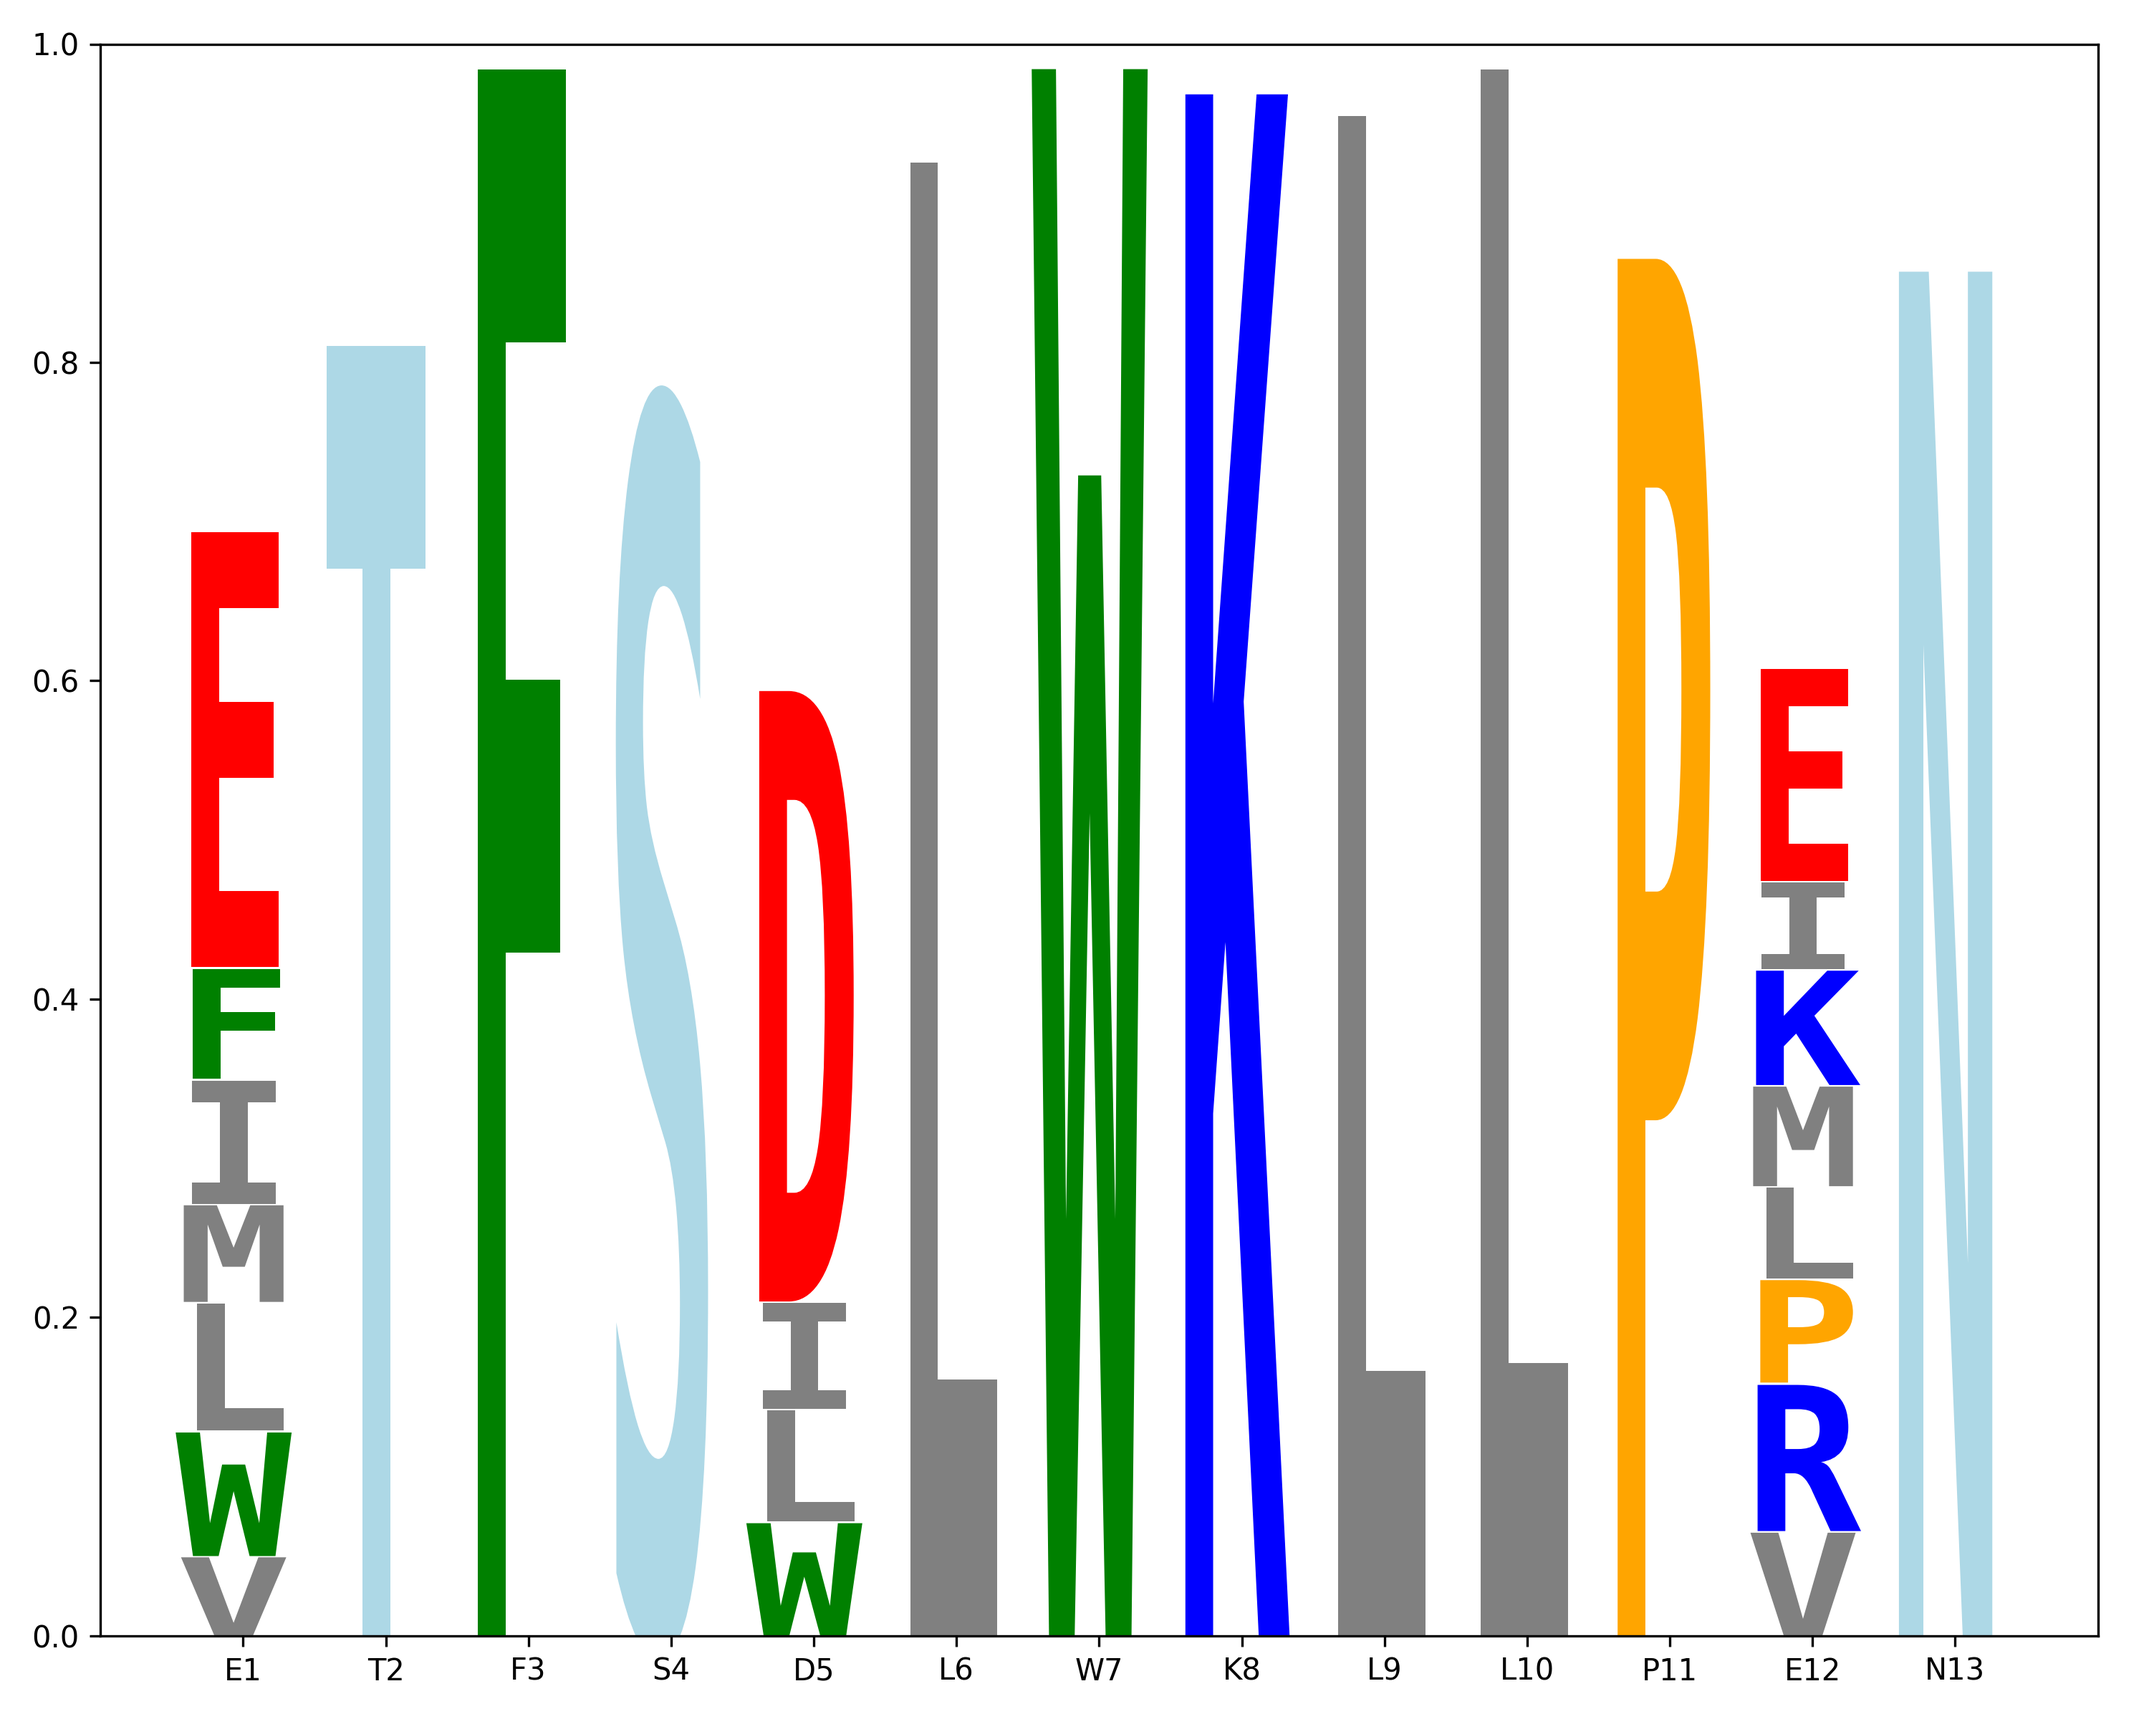
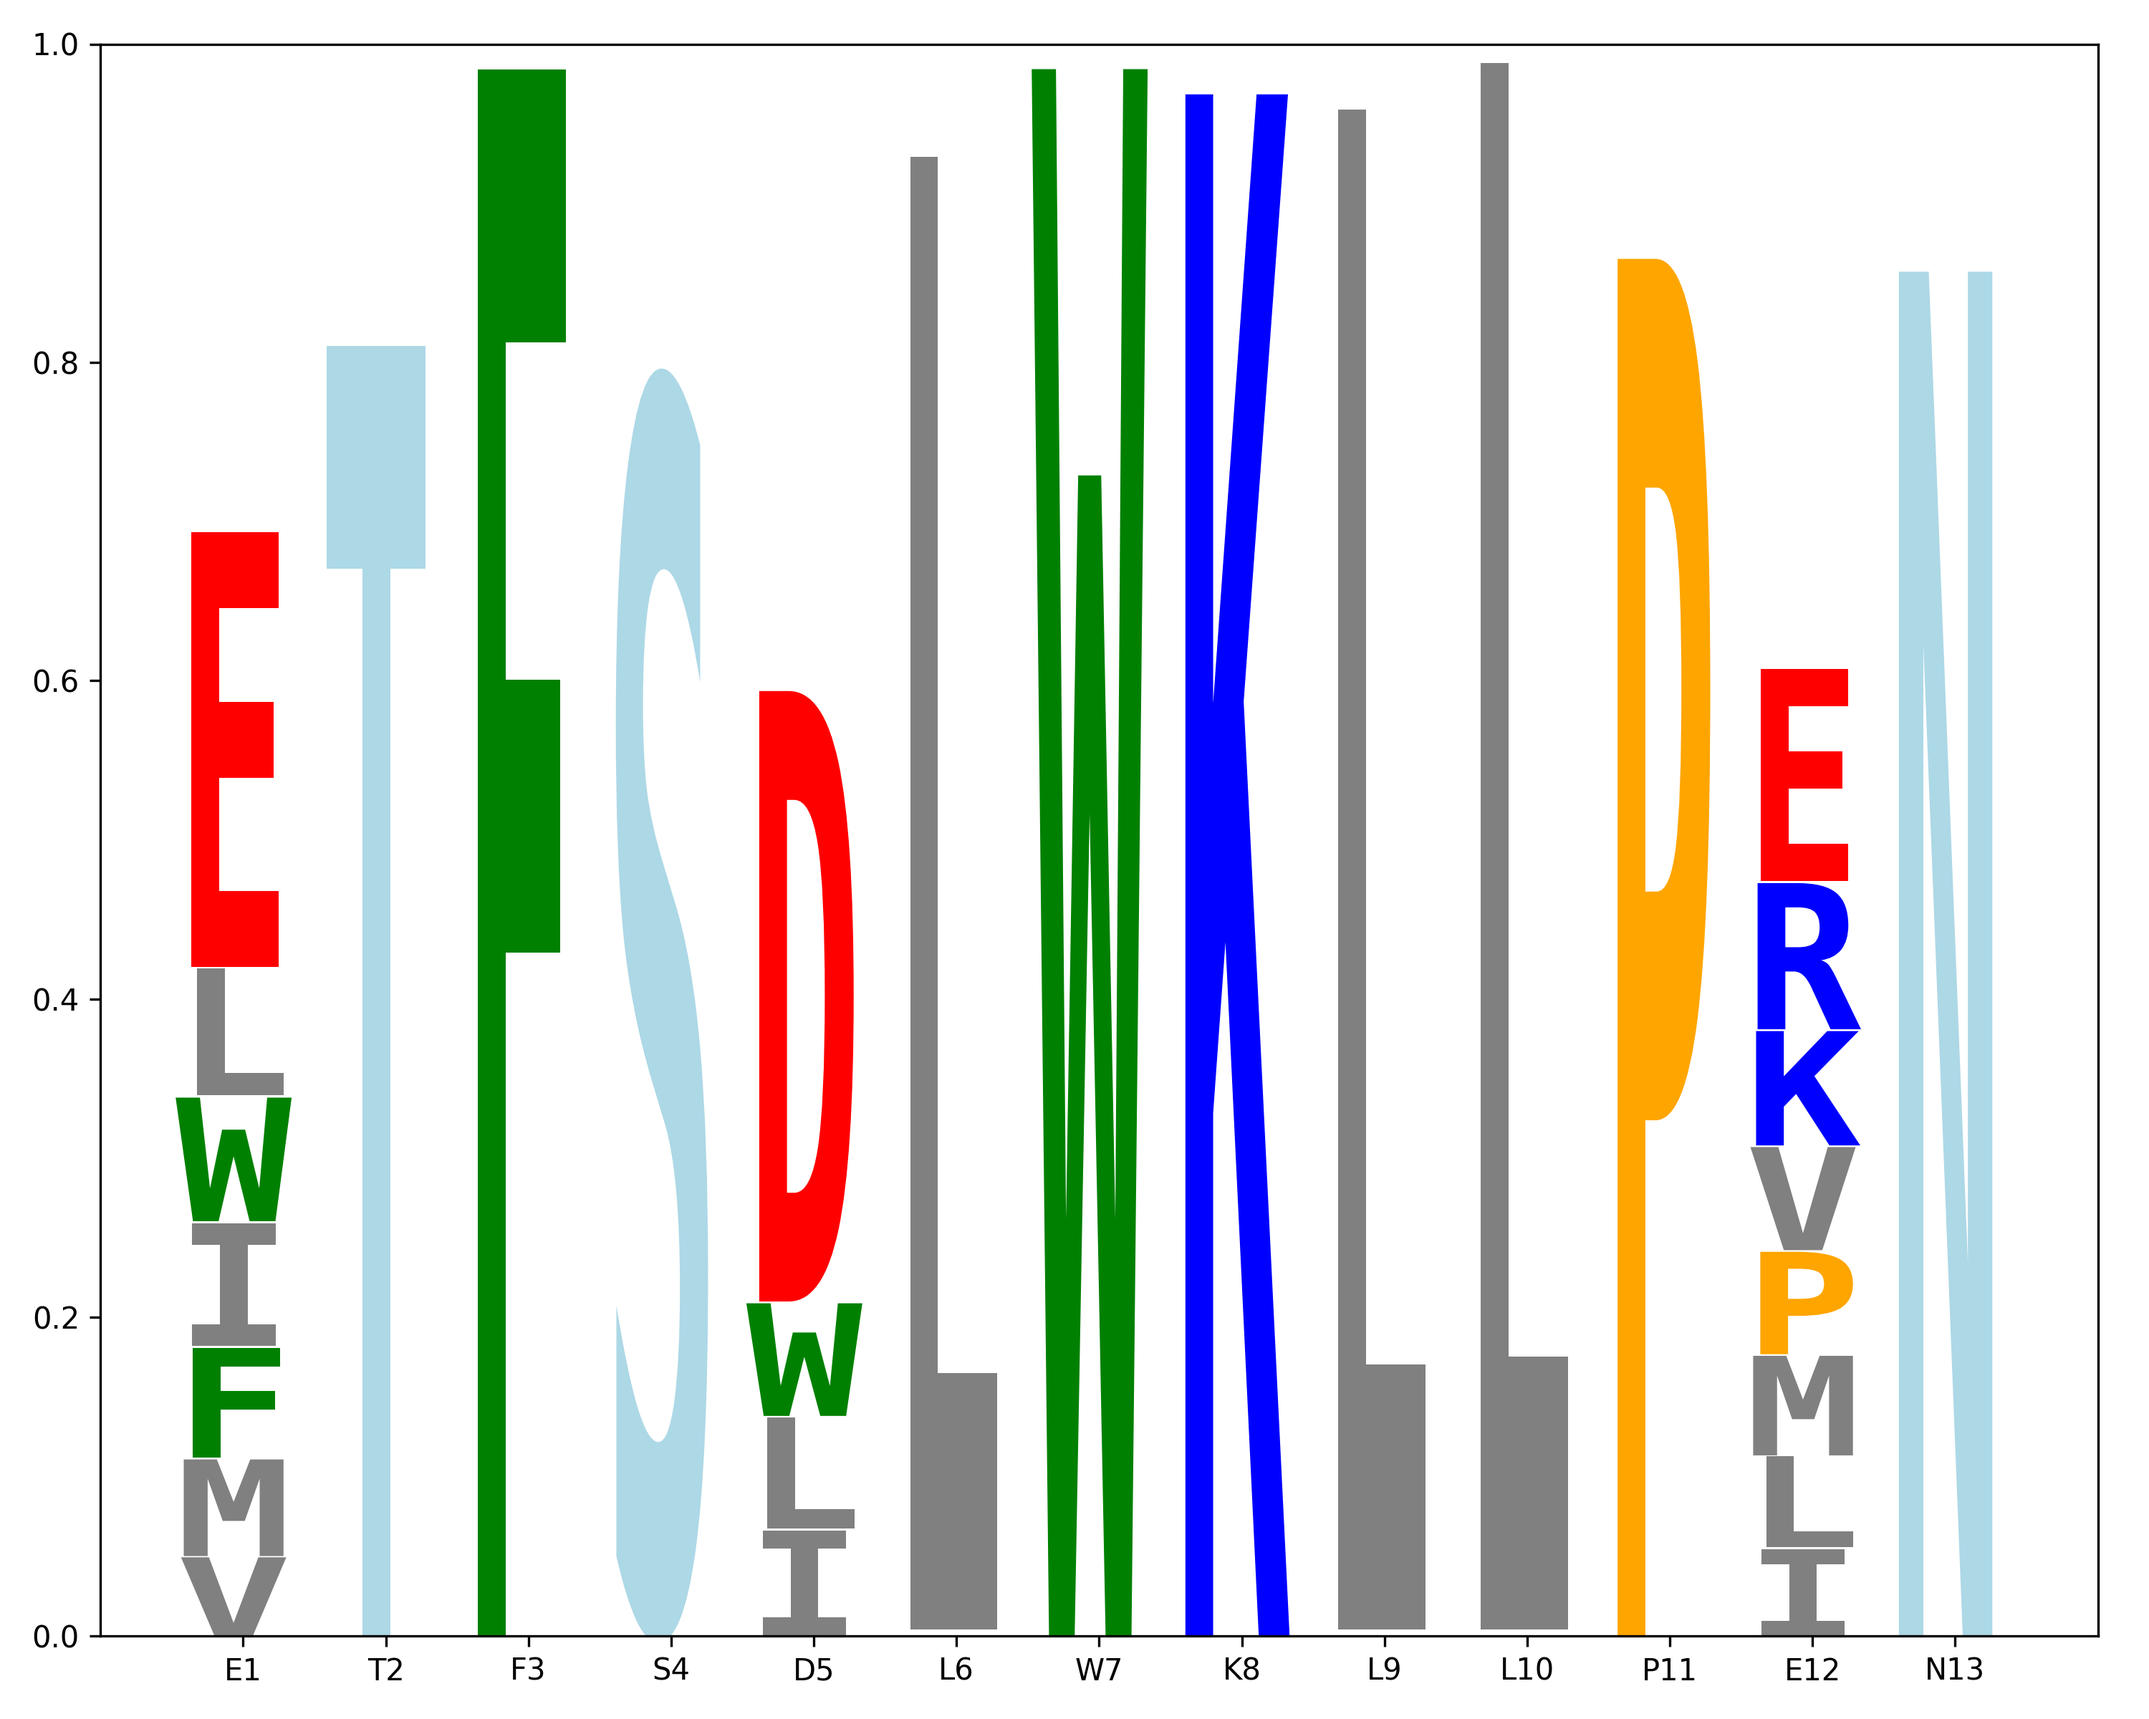
0511

diff --git a/peptide-permable/analyze_result.py b/peptide-permable/analyze_result.py
@@ -68,16 +68,16 @@ LETTERS = {
         "H" : TextPath((-0.35, 0), "H", size=1, prop=fp) ,
         "K" : TextPath((-0.35, 0), "K", size=1, prop=fp),
         "M" : TextPath((-0.35, 0), "M", size=1, prop=fp),
-        "L" : TextPath((-0.35, 0), "L", size=1, prop=fp),
+        "L" : TextPath((-0.35, 0.003), "L", size=1, prop=fp),
         "N" : TextPath((-0.35, 0), "N", size=1, prop=fp) ,
-        "Q" : TextPath((-0.35, 0), "Q", size=1, prop=fp),
+        "Q" : TextPath((-0.35, 0.01), "Q", size=1, prop=fp),
         "P" : TextPath((-0.35, 0), "P", size=1, prop=fp),
-        "S" : TextPath((-0.35, 0), "S", size=1, prop=fp),
+        "S" : TextPath((-0.35, 0.01), "S", size=1, prop=fp),
         "R" : TextPath((-0.35, 0), "R", size=1, prop=fp),
         "T" : TextPath((-0.35, 0), "T", size=1, prop=fp),
         "W" : TextPath((-0.35, 0), "W", size=1, prop=fp),
         "V" : TextPath((-0.35, 0), "V", size=1, prop=fp),
-        "Y" : TextPath((-0.35, 0), "Ys", size=1, prop=fp) }
+        "Y" : TextPath((-0.35, 0), "Y", size=1, prop=fp) }
 COLOR_SCHEME = {'A': 'grey', 'C': 'lightBlue', 'E': 'red', 'D': 'red',
                 'G': 'grey', 'F': 'green', 'I': 'grey', 'H': 'blue', 'K': 'blue',
                 'M': 'grey', 'L': 'grey', 'N': 'lightBlue', 'Q': 'lightBlue', 'P': 'orange',
@@ -101,7 +101,7 @@ def plot(thres=0.05,name='temp'):
     fig, ax = plt.subplots(figsize=(10,8))
     for i in range(0,13):
         y = 0
-        for aa in range(0,20)[::-1]:
+        for aa in np.argsort(score[i,:]):#for aa in range(0,20)[::-1]:
             temp_score = score[i,aa]
             if temp_score >= thres:
                 letter = dictt_inv[aa]
@@ -114,4 +114,5 @@ def plot(thres=0.05,name='temp'):
     plt.savefig(name+'.png',dpi=300)
     plt.show()
     plt.close()
-plot(0.05,'Fig_30percent_thres5_var')
+for i in range(2,9):
+    plot(i*1.0/100,'Fig_30percent_thres%s_var'%i)
